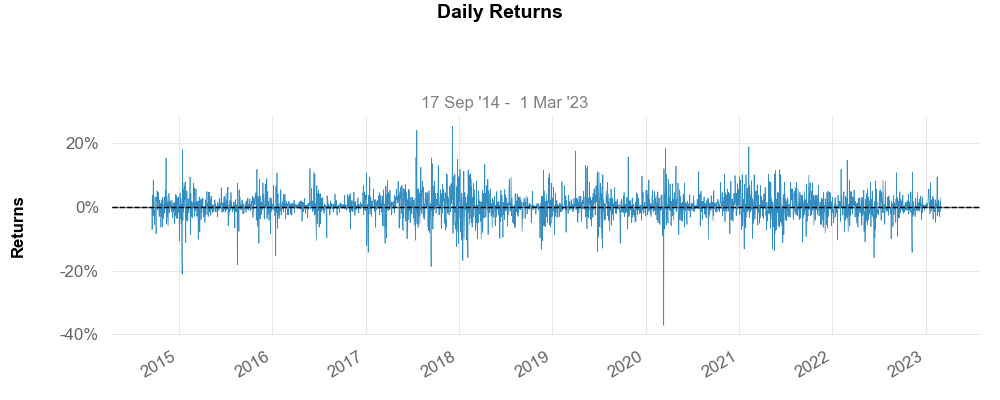
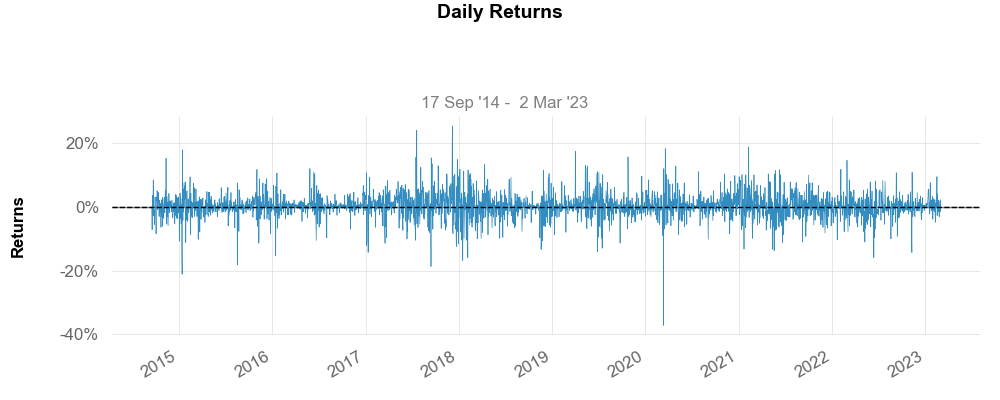
fixing date time compare

diff --git a/test_webapp.py b/test_webapp.py
@@ -25,6 +25,7 @@ for filesname in datafiles:
             ee = 0
     df_main['Result'] = result
     df_main['New_col'] = df_main['ticker'] + "-" + df_main['Result'].astype(str)
+    
     df_main.set_index('New_col', inplace=True)
     
 # functions
@@ -44,6 +45,7 @@ def plot_with_quant(data_name,plot_name):
 def plot_full_report(data_name):
     data_dt = qs.utils.download_returns(f'{data_name}')
     import functions.create_full_report
+    #data_dt.index = data_dt.index.tz_convert(None)
     print(data_dt)
     print('done print data_dt')
     print(data_name)

diff --git a/functions/create_full_report.py b/functions/create_full_report.py
@@ -1,9 +1,8 @@
 import quantstats as qs
 
 def create_report(dataname,date_dt):
-    print(dataname,date_dt)
-    qs.reports.full(date_dt)
-
+    #qs.reports.full(date_dt)
+    #qs.reports.html(date_dt,dataname,title=f'{dataname}Report Investments', output='output/BTC_report.html', mode='full')
     """, title=f'{dataname} Report Investments', output='output/BTC_report.html', mode='full'"""
     """using qs.reports.html"""
-
+    qs.reports.plots(date_dt, mode='full')

diff --git a/tempCodeRunnerFile.py b/tempCodeRunnerFile.py
@@ -1,0 +1,1 @@
+data_dt
